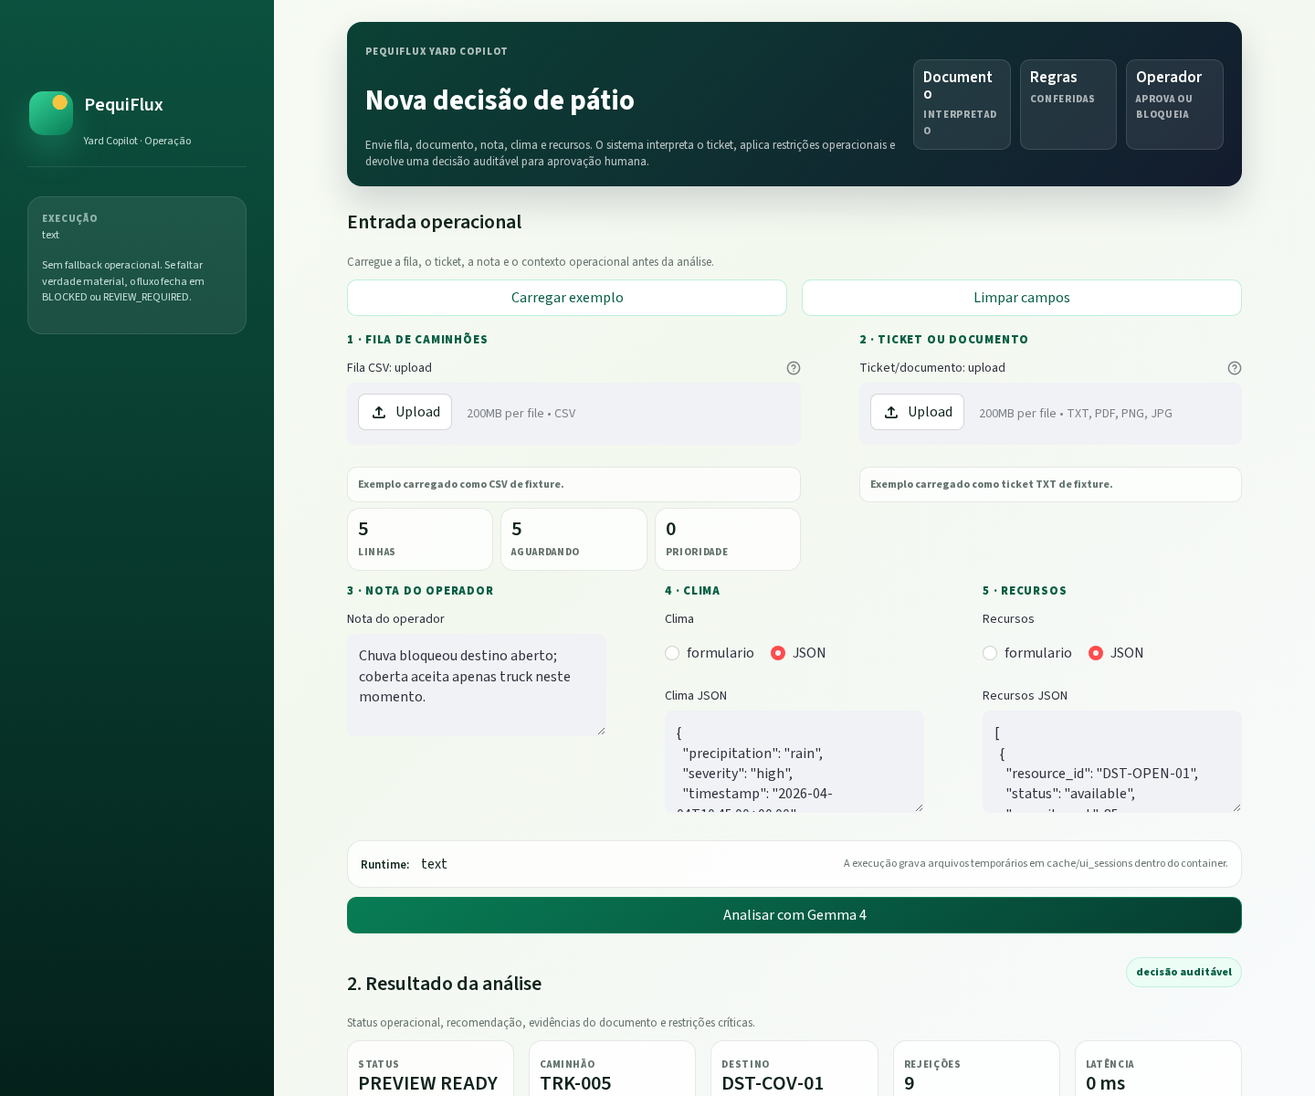
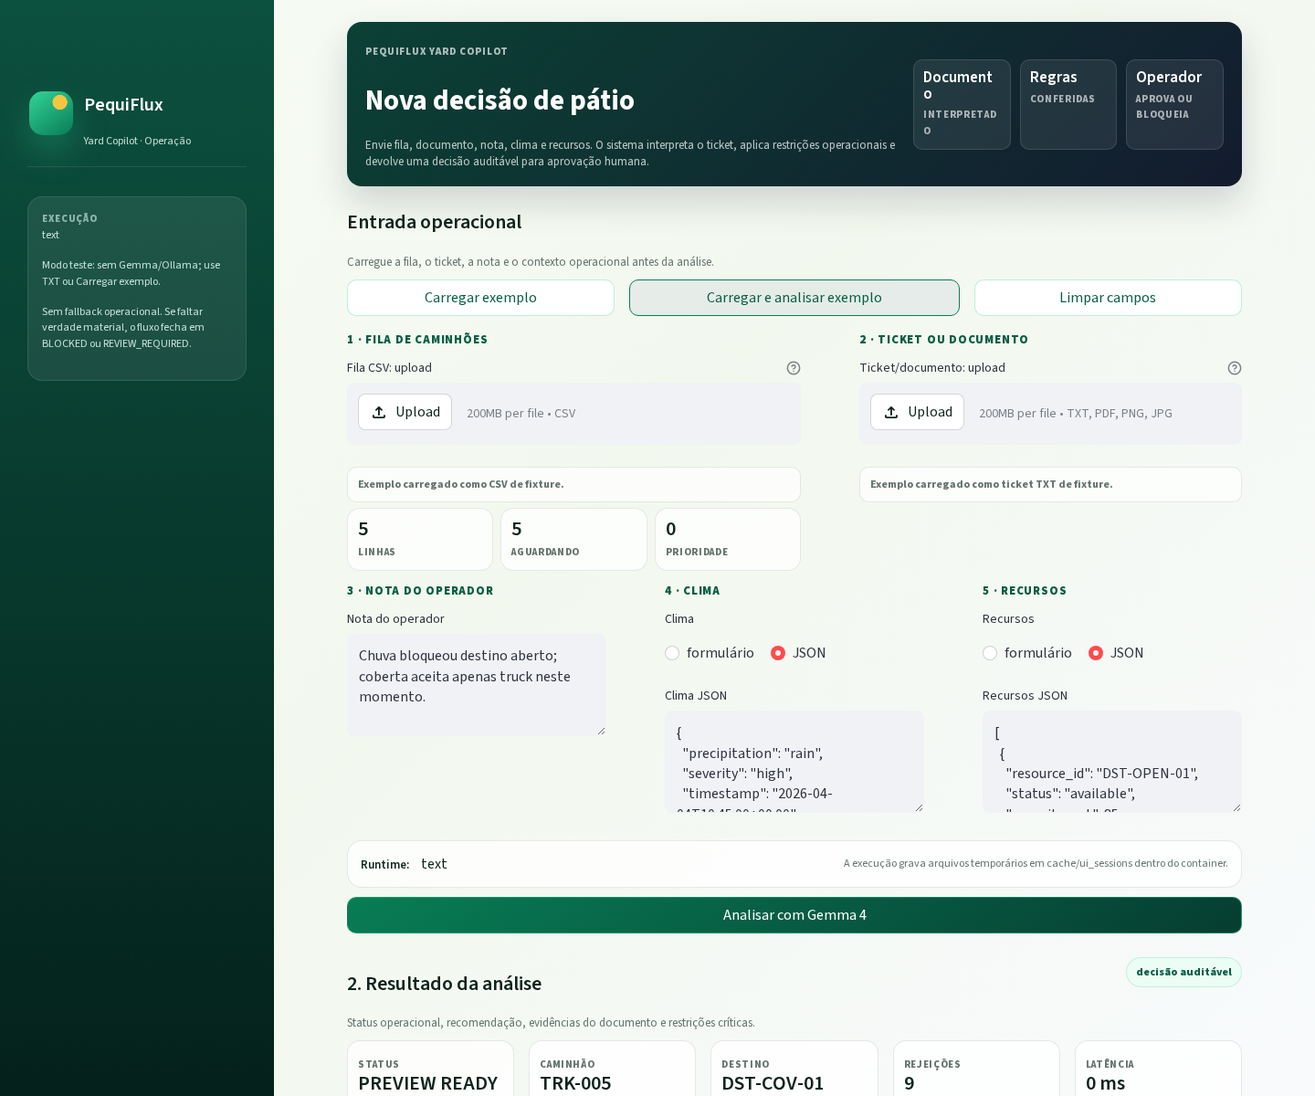
feat: polish operator demo flow

Changed region(s): [[0.3438, 0.2467, 0.875, 0.3083], [0.0312, 0.2158, 0.1562, 0.3392]]

diff --git a/app/ui/streamlit_app.py b/app/ui/streamlit_app.py
@@ -50,6 +50,8 @@ INPUT_KEYS = {
     "weather_severity": "yard_weather_severity",
     "resource_available": "yard_resource_available",
     "resource_blocked": "yard_resource_blocked",
+    "resource_wet": "yard_resource_wet",
+    "analyze_example": "yard_analyze_example",
 }
 
 
@@ -164,7 +166,7 @@ def _render_operator_input(
             """,
             unsafe_allow_html=True,
         )
-        submitted = False
+        submitted = bool(st.session_state.pop(INPUT_KEYS["analyze_example"], False))
         with st.container():
             _render_input_actions(example_case)
             top_a, top_b = st.columns([1.08, 0.92], gap="large")
@@ -219,7 +221,9 @@ def _render_operator_input(
                 """,
                 unsafe_allow_html=True,
             )
-            submitted = st.button("Analisar com Gemma 4", type="primary", width="stretch")
+            submitted = (
+                st.button("Analisar com Gemma 4", type="primary", width="stretch") or submitted
+            )
 
     return {
         "submitted": submitted,
@@ -244,7 +248,7 @@ def _render_operator_note_input() -> str:
 def _render_weather_input() -> str:
     mode = st.radio(
         "Clima",
-        ["formulario", "JSON"],
+        ["formulário", "JSON"],
         horizontal=True,
         key=INPUT_KEYS["weather_mode"],
     )
@@ -266,7 +270,7 @@ def _render_weather_input() -> str:
 def _render_resource_input() -> str:
     mode = st.radio(
         "Recursos",
-        ["formulario", "JSON"],
+        ["formulário", "JSON"],
         horizontal=True,
         key=INPUT_KEYS["resource_mode"],
     )
@@ -282,6 +286,13 @@ def _render_resource_input() -> str:
         key=INPUT_KEYS["resource_blocked"],
         help="Separe IDs por vírgula. Ex.: DST-OPEN-01",
     )
+    wet_destinations = st.text_input(
+        "Destinos para carga úmida",
+        key=INPUT_KEYS["resource_wet"],
+        help="Separe IDs por vírgula. Esses destinos aceitam dry e wet.",
+    )
+    wet_ids = set(_split_ids(wet_destinations))
+    available_ids = list(dict.fromkeys([*_split_ids(available), *wet_ids]))
     resources = [
         {
             "resource_id": item,
@@ -290,9 +301,9 @@ def _render_resource_input() -> str:
             "resource_type": "covered_hopper",
             "exposure": "covered",
             "allowed_vehicle_types": ["truck", "bitrem"],
-            "supported_load_conditions": ["dry"],
+            "supported_load_conditions": ["dry", "wet"] if item in wet_ids else ["dry"],
         }
-        for item in _split_ids(available)
+        for item in available_ids
     ]
     resources.extend(
         {
@@ -354,11 +365,17 @@ def _split_ids(value: str) -> list[str]:
 
 
 def _render_input_actions(example_case: dict[str, Any]) -> None:
-    left, right = st.columns([0.18, 0.18], gap="small")
+    left, middle, right = st.columns([0.18, 0.22, 0.18], gap="small")
     with left:
         if st.button("Carregar exemplo", width="stretch"):
             _load_example_into_state(example_case)
             st.session_state["active_case"] = EXAMPLE_SCENARIO_ID
+            st.rerun()
+    with middle:
+        if st.button("Carregar e analisar exemplo", width="stretch"):
+            _load_example_into_state(example_case)
+            st.session_state["active_case"] = EXAMPLE_SCENARIO_ID
+            st.session_state[INPUT_KEYS["analyze_example"]] = True
             st.rerun()
     with right:
         if st.button("Limpar campos", width="stretch"):
@@ -462,9 +479,19 @@ def _sidebar_runtime_block() -> str:
     <div class="side-card compact">
       <div class="side-kicker">Execução</div>
       <p>{escape(runtime_label())}</p>
+      <p>{escape(_runtime_mode_note())}</p>
       <p>Sem fallback operacional. Se faltar verdade material, o fluxo fecha em BLOCKED ou REVIEW_REQUIRED.</p>
     </div>
     """
+
+
+def _runtime_mode_note() -> str:
+    runtime = os.getenv("PEQUIFLUX_GEMMA_RUNTIME", "ollama")
+    if runtime == "text":
+        return "Modo teste: sem Gemma/Ollama; use TXT ou Carregar exemplo."
+    if runtime == "ollama":
+        return "Gemma 4 ativo via Ollama."
+    return f"Runtime customizado: {runtime}."
 
 
 def _empty_defaults() -> dict[str, str]:
@@ -480,6 +507,7 @@ def _empty_defaults() -> dict[str, str]:
         "weather_severity": "none",
         "resource_available": "",
         "resource_blocked": "",
+        "resource_wet": "",
     }
 
 

diff --git a/app/ui/components/decision_card.py b/app/ui/components/decision_card.py
@@ -18,14 +18,20 @@ from app.ui.components.common import (
 
 
 def recommended_decision_card(payload: FrontEndPayload) -> str:
-    recommended_truck = (
-        payload.recommended_truck.truck_id if payload.recommended_truck else "sem chamada"
-    )
+    status = str(payload.decision_status)
+    recommended_truck = payload.recommended_truck.truck_id if payload.recommended_truck else "-"
     destination = (
-        payload.recommended_destination.destination_id
-        if payload.recommended_destination
-        else "revisão humana"
+        payload.recommended_destination.destination_id if payload.recommended_destination else "-"
     )
+    if status.endswith("REVIEW_REQUIRED"):
+        title = "Decisão exige revisão humana"
+        summary = "O sistema encontrou verdade insuficiente ou conflito material para automatizar com segurança."
+    elif status.endswith("BLOCKED"):
+        title = "Sem despacho automático seguro"
+        summary = "Nenhum par caminhão-destino pode ser liberado automaticamente com as restrições atuais."
+    else:
+        title = f"{recommended_truck} deve ir para {destination}"
+        summary = "Recomendação operacional baseada no ticket interpretado, no estado do pátio e nas restrições críticas avaliadas."
     reason_items = "".join(
         f"<li>{escape(reason_detail_label(item))}</li>" for item in payload.reason_details[:3]
     )
@@ -33,12 +39,12 @@ def recommended_decision_card(payload: FrontEndPayload) -> str:
     <section class="decision-story single">
       <div class="story-main">
         <span class="eyebrow dark">Resultado da análise</span>
-        <h2>{escape(recommended_truck)} deve ir para {escape(destination)}</h2>
-        <p>Recomendação operacional baseada no ticket interpretado, no estado do pátio e nas restrições críticas avaliadas.</p>
+        <h2>{escape(title)}</h2>
+        <p>{escape(summary)}</p>
         <ul>{reason_items}</ul>
       </div>
       <div class="story-grid compact">
-        {story_tile("Status", str(payload.decision_status), "Resultado atual antes da ação humana.")}
+        {story_tile("Status", status, "Resultado atual antes da ação humana.")}
         {story_tile("Caminhão", recommended_truck, f"Destino: {destination}", "action")}
         {story_tile("Motivo operacional", "verificável", reason_detail_label(payload.reason_summary), "proof")}
       </div>

diff --git a/app/ui/components/audit_panel.py b/app/ui/components/audit_panel.py
@@ -125,7 +125,10 @@ def render_operator_action(payload: FrontEndPayload) -> None:
                 )
             }
         )
-        requested_destination = st.selectbox("Destino solicitado", destination_options)
+        if destination_options:
+            requested_destination = st.selectbox("Destino solicitado", destination_options)
+        else:
+            st.warning("Nenhum destino validado disponível para override.")
     if st.button("Registrar ação", type="primary"):
         try:
             finalized, updated_audit = finalize_operator_decision(
@@ -249,7 +252,7 @@ def _ticket_preview_text(ticket_path: Path, content_type: str) -> str:
             return "Texto indisponível no cache da execução."
         return " ".join(text.split())[:360] or "Ticket textual vazio."
     if content_type == "application/pdf":
-        return "PDF encaminhado ao leitor local; a UI nao mostra prompt nem OCR bruto."
+        return "PDF encaminhado ao leitor local; a UI não mostra prompt nem OCR bruto."
     return "Imagem encaminhada ao leitor local; interpretação multimodal ocorre no container."
 
 

diff --git a/app/ui/scenario_loader.py b/app/ui/scenario_loader.py
@@ -62,7 +62,7 @@ def build_request_from_inputs(
             suffix = Path(uploaded.name).suffix.lower()
             content_type = CONTENT_TYPES.get(suffix)
             if content_type is None:
-                return None, f"Tipo de ticket nao suportado: {suffix}"
+                return None, f"Tipo de ticket não suportado: {suffix}"
             ticket_path = run_dir / f"ticket{suffix}"
             ticket_path.write_bytes(uploaded.getvalue())
         else:

diff --git a/docs/SURFACE_MAP.md b/docs/SURFACE_MAP.md
@@ -10,13 +10,13 @@ Mapa da superfície pública/exportada do PequiFlux Yard Copilot.
 | `app.cli.run_benchmark` | CLI module | `app/cli/run_benchmark.py` | Executa benchmark de cenários | Manifest, fixtures e `--output-dir` opcional | Métricas/relatório em `bench/reports/extended/<run_id>` por padrão | Recusa `bench/reports/sample/` como saída porque o sample é evidência pública congelada; `metrics.json` inclui `run_metadata` com runtime, manifest, contagem e variantes reportadas; novos snapshots de teste podem usar `bench/reports/extended-sample/<run_id>` |
 | `app.cli.prewarm_gemma` | CLI module | `app/cli/prewarm_gemma.py` | Preaquece runtime Gemma/Ollama | Configuração de runtime | Status de prewarm | Não deve substituir runtime ausente |
 | `app.cli.blueprint_audit` | CLI module | `app/cli/blueprint_audit.py` | Audita alinhamento com blueprint | Blueprint/docs/manifest | Relatório de auditoria | Exige o pack congelado S01-S20, valida que `docs/technical_blueprint.md` é ponte curta para o blueprint canônico da raiz e apoia checks públicos |
-| `app.ui.streamlit_app` | UI module | `app/ui/streamlit_app.py` | Composição da tela Streamlit operacional | `Carregar exemplo`, `Limpar campos`, fila CSV por upload, ticket/documento PDF/PNG/JPG/TXT por upload, nota, clima em formulário simples ou JSON e recursos em formulário simples ou JSON | Nova decisão, resultado, ação do operador e auditoria técnica colapsada | Deve permanecer fino; importa componentes por nomes públicos de renderização, sem depender de helpers privados; não renderiza benchmark strip, modo de banca ou comparação entre variantes na tela principal; `PEQUIFLUX_UI_AUTORUN=1` carrega o exemplo para captura de screenshot/demo |
+| `app.ui.streamlit_app` | UI module | `app/ui/streamlit_app.py` | Composição da tela Streamlit operacional | `Carregar exemplo`, `Carregar e analisar exemplo`, `Limpar campos`, fila CSV por upload, ticket/documento PDF/PNG/JPG/TXT por upload, nota, clima em formulário simples ou JSON e recursos em formulário simples ou JSON com destinos para carga úmida | Nova decisão, resultado, ação do operador e auditoria técnica colapsada | Deve permanecer fino; importa componentes por nomes públicos de renderização, sem depender de helpers privados; não renderiza benchmark strip, modo de banca ou comparação entre variantes na tela principal; sidebar distingue modo teste `text` de Gemma 4 ativo via Ollama; `PEQUIFLUX_UI_AUTORUN=1` carrega o exemplo para captura de screenshot/demo |
 | `app.ui.scenario_loader` | UI service module | `app/ui/scenario_loader.py` | Carrega manifest/casos e monta `DecisionRequest` de inputs técnicos | Manifest, fixtures, upload/texto da UI, JSON de clima/recurso | `DecisionRequest` ou erro explícito de entrada | Escreve somente cache de sessão em `cache/ui_sessions`; sem regra de decisão |
 | `app.ui.ui_runner` | UI service module | `app/ui/ui_runner.py` | Executa payload principal e baseline FIFO para a UI | `DecisionRequest` | `FrontEndPayload` full e FIFO | Único ponto da UI que instancia `DecisionOrchestrator`; orquestrador cacheado com `st.cache_resource` para evitar reconstruir adapter/runtime a cada rerun do Streamlit |
 | `app.ui.components.common` | UI helper module | `app/ui/components/common.py` | Helpers compartilhados de apresentação, escape HTML, chips, métricas curtas, rótulo de runtime e status técnico | `FrontEndPayload`, valores de UI, variáveis de ambiente de runtime | Strings HTML seguras e labels de apresentação | Superfície compartilhada usa nomes públicos como `escape`, `chip`, `runtime_label`, `audit_status_label` e `operator_action_label`; não calcula FIFO bruto nem lê CSV de fila; helpers internos continuam privados |
-| `app.ui.components.decision_card` | UI component module | `app/ui/components/decision_card.py` | Renderiza resultado da análise, fila visual, documento interpretado pelo Gemma 4 e restrições bloqueantes | `FrontEndPayload`, `DecisionRequest` | HTML seguro para Streamlit | A tela principal usa `recommended_decision_card`, `queue_stack_card`, `gemma_extraction_card` e `blocked_constraints_card`; `gemma_extraction_card` mostra ticket, caminhão lido, tipo de carga, destino extraído, confiança e campos usados na decisão; não expõe comparação entre variantes, benchmark strip ou modo de banca; usa `queue_diff`/audit record; não recalcula regra de domínio |
+| `app.ui.components.decision_card` | UI component module | `app/ui/components/decision_card.py` | Renderiza resultado da análise, fila visual, documento interpretado pelo Gemma 4 e restrições bloqueantes | `FrontEndPayload`, `DecisionRequest` | HTML seguro para Streamlit | A tela principal usa `recommended_decision_card`, `queue_stack_card`, `gemma_extraction_card` e `blocked_constraints_card`; `recommended_decision_card` trata `PREVIEW_READY`, `REVIEW_REQUIRED` e `BLOCKED` com títulos operacionais distintos; `gemma_extraction_card` mostra ticket, caminhão lido, tipo de carga, destino extraído, confiança e campos usados na decisão; não expõe comparação entre variantes, benchmark strip ou modo de banca; usa `queue_diff`/audit record; não recalcula regra de domínio |
 | `app.ui.components.validation_matrix` | UI component module | `app/ui/components/validation_matrix.py` | Renderiza heatmap de validação de hard constraints | `FrontEndPayload.audit_record` | Componente Streamlit/HTML | Exporta `render_validation_matrix`; consome `hard_constraints_checked`; não revalida pares |
-| `app.ui.components.audit_panel` | UI component module | `app/ui/components/audit_panel.py` | Renderiza auditoria, contexto interpretado, mensagem ao motorista e ação humana | `FrontEndPayload`, `DecisionRequest` | Componentes Streamlit e persistência de ação via governança | Exporta renderizadores públicos como `render_audit`, `render_driver_message`, `render_operator_action`, `render_status_bar`, `copilot_timeline_card` e `tool_badges_card`; `render_gemma_context` mostra Runtime, Etapa, Tipo do arquivo e Status dentro da auditoria técnica; persistência passa por `finalize_operator_decision` e `SQLiteStore` |
+| `app.ui.components.audit_panel` | UI component module | `app/ui/components/audit_panel.py` | Renderiza auditoria, contexto interpretado, mensagem ao motorista e ação humana | `FrontEndPayload`, `DecisionRequest` | Componentes Streamlit e persistência de ação via governança | Exporta renderizadores públicos como `render_audit`, `render_driver_message`, `render_operator_action`, `render_status_bar`, `copilot_timeline_card` e `tool_badges_card`; `render_gemma_context` mostra Runtime, Etapa, Tipo do arquivo e Status dentro da auditoria técnica; override avisa quando não há destino validado; persistência passa por `finalize_operator_decision` e `SQLiteStore` |
 | `app.orchestration.orchestrator` | module | `app/orchestration/orchestrator.py` | Coordena fluxo de decisão e finalização auditável | `DecisionRequest`, estados, política | Decisão final/review/error com payload auditável | `run_decision()` delega para `load_inputs`, `interpret_context`, `validate_and_rank`, `build_payload` e `persist_and_log`; bloqueios após interpretação preservam proveniência/contexto no payload terminal |
 | `app.orchestration.truth_resolver` | module | `app/orchestration/truth_resolver.py` | Resolve divergências entre fontes | Ticket, nota, estados | Contexto reconciliado | Falhas devem ser explícitas |
 | `app.orchestration.state_machine` | module | `app/orchestration/state_machine.py` | Controla estados terminais e transições | Estado atual, evento ou terminal forçado com motivo | Novo estado/erro | Fluxo normal usa `transition_to`; erro terminal controlado usa `force_terminal`, sem atribuição direta fora da máquina |

diff --git a/docs/UI_DECISIONS.md b/docs/UI_DECISIONS.md
@@ -10,14 +10,22 @@ A interface principal deve parecer produto operacional, não painel de banca. O 
 
 A primeira tela segue quatro blocos:
 
-1. Nova decisão: botões `Carregar exemplo` e `Limpar campos`, fila CSV por upload, ticket/documento PDF/PNG/JPG/TXT por upload, nota do operador, clima em formulário simples ou JSON, e recursos em formulário simples ou JSON.
+1. Nova decisão: botões `Carregar exemplo`, `Carregar e analisar exemplo` e `Limpar campos`, fila CSV por upload, ticket/documento PDF/PNG/JPG/TXT por upload, nota do operador, clima em formulário simples ou JSON, e recursos em formulário simples ou JSON.
 2. Resultado: status, caminhão recomendado, destino recomendado, motivo operacional, documento interpretado, restrições críticas e mensagem ao motorista.
 3. Ação do operador: aprovar, bloquear ou sobrescrever com motivo.
 4. Auditoria técnica: JSON, matriz de validação, hashes, regras disparadas e latência.
 
 ### Demo discreta
 
-A UI mantém apenas dois comandos auxiliares no cabeçalho da entrada operacional: `Carregar exemplo` e `Limpar campos`. O exemplo preenche o pacote com um caso versionado do manifest e permite que avaliadores executem o fluxo como usuários finais. A demo não deve transformar a tela principal em benchmark, modo de banca ou painel comparativo.
+A UI mantém comandos auxiliares no cabeçalho da entrada operacional: `Carregar exemplo`, `Carregar e analisar exemplo` e `Limpar campos`. O exemplo preenche o pacote com um caso versionado do manifest e permite que avaliadores executem o fluxo como usuários finais. A demo não deve transformar a tela principal em benchmark, modo de banca ou painel comparativo.
+
+### Runtime explícito
+
+O sidebar precisa distinguir execução de teste e execução real. Com `PEQUIFLUX_GEMMA_RUNTIME=text`, a UI informa que é modo teste sem Gemma/Ollama e orienta o uso de TXT ou exemplo. Com `ollama`, informa que Gemma 4 está ativo via Ollama.
+
+### Recursos sem JSON obrigatório
+
+O formulário simples de recursos inclui destinos disponíveis, destinos bloqueados e destinos para carga úmida. Destinos marcados como carga úmida recebem `supported_load_conditions: ["dry", "wet"]`, evitando que o operador precise abrir JSON para modelar moega compatível com carga úmida.
 
 ### Sem benchmark na tela principal
 

diff --git a/docs/DUPLICATION_GUARD.md b/docs/DUPLICATION_GUARD.md
@@ -53,7 +53,8 @@ Procurar:
 - Classificação de exceções deve acumular sinais em `secondary_exceptions` e `affected_resources`; não voltar a early return por primeira condição em `app/services/exception_classifier.py`.
 - Quando `MANUAL_REVIEW_HINT` aparecer em achados de classificação, mesmo como secundária, `needs_human_review` deve ser `true`; não depender apenas da exceção primária.
 - Combinações críticas de hierarquia devem ficar como testes unitários em `tests/unit/test_exception_classifier.py`, `tests/unit/test_constraints.py` e `tests/unit/test_truth_resolver.py`; não expandir o sample público congelado só para cobrir variantes de regra.
-- A tela principal da UI deve ser operacional: comandos `Carregar exemplo`/`Limpar campos` no cabeçalho da entrada operacional, fila CSV por upload, ticket/documento por upload, nota, clima/recursos simples ou JSON, resultado, ação humana e auditoria técnica colapsada. Benchmark strip, modo de banca e comparação entre variantes não devem voltar para a superfície principal.
+- A tela principal da UI deve ser operacional: comandos `Carregar exemplo`/`Carregar e analisar exemplo`/`Limpar campos` no cabeçalho da entrada operacional, fila CSV por upload, ticket/documento por upload, nota, clima/recursos simples ou JSON, resultado, ação humana e auditoria técnica colapsada. Benchmark strip, modo de banca e comparação entre variantes não devem voltar para a superfície principal.
+- O formulário simples de recursos deve modelar compatibilidade com carga úmida via `Destinos para carga úmida`; não forçar operadores finais a editar JSON para adicionar `supported_load_conditions: ["dry", "wet"]`.
 - Prova de Gemma na UI deve usar `gemma_extraction_card` para o resumo operacional e `render_gemma_context` para Runtime/Etapa/Tipo do arquivo/Status na auditoria avançada; não criar cartão paralelo de benchmark ou runtime.
 - Screenshot do README deve usar `assets/screenshots/pequiflux-ui.png`; manter `docs/writeup_assets/pequiflux-ui.png` sincronizado quando usado em material de submissão.
 - Visualizações de fila e heatmap na UI devem usar `queue_diff` e `AuditRecord`; não recriar validação de hard constraints no front-end.

diff --git a/docs/HACKATHON_SUBMISSION.md b/docs/HACKATHON_SUBMISSION.md
@@ -4,9 +4,9 @@ Mapa dos critérios esperados da submissão para evidências versionadas no repo
 
 | Critério | Evidência no repo | Como verificar |
 |---|---|---|
-| Uso claro de Gemma | `app/gemma/`, `docs/gemma.md`, `docs/adr/ADR-0002-gemma-as-interpretation-layer.md` | Gemma interpreta documento; regras deterministicas decidem |
+| Uso claro de Gemma | `app/gemma/`, `docs/gemma.md`, `docs/adr/ADR-0002-gemma-as-interpretation-layer.md` | Gemma interpreta documento; regras determinísticas decidem |
 | Problema real e delimitado | `README.md`, `docs/product.md`, `docs/LIMITATIONS.md` | Escopo: despacho de pátio sob exceção operacional |
-| Demo avaliavel | `app/ui/streamlit_app.py`, `assets/screenshots/pequiflux-ui.png`, `docs/DEMO_SCRIPT.md` | `make ui-text` sem GPU; `make ui` para Gemma/Ollama completo |
+| Demo avaliável | `app/ui/streamlit_app.py`, `assets/screenshots/pequiflux-ui.png`, `docs/DEMO_SCRIPT.md` | `make ui-text` sem GPU em modo teste; `make ui` para Gemma/Ollama completo |
 | Benchmark comparativo | `app/cli/run_benchmark.py`, `bench/metrics.py`, `bench/reports/sample/`, `bench/reports/extended/` | `make bench` gera `metrics.json`, `summary.csv`, `per_scenario.json` em `extended`; o sample público fica congelado e não é saída viva |
 | Reprodutibilidade | `Dockerfile`, `compose.yaml`, `Makefile`, `config/env.example` | `make demo-text`, `make ui-text`, `make test`, `make audit` |
 | Auditoria e explicabilidade | `app/audit/`, `app/services/decision_builder.py`, schemas em `scenarios/schemas/` | Payload final inclui `AuditRecord`, regras disparadas e hashes |
@@ -20,7 +20,7 @@ Pe-Q.I torna mensurável quando e por que o FIFO puro deve ser quebrado: o bench
 ## Evidência Rápida
 
 - UI final: `assets/screenshots/pequiflux-ui.png`
-- Benchmark sample publico congelado: `bench/reports/sample/metrics.json`
+- Benchmark sample público congelado: `bench/reports/sample/metrics.json`
 - Benchmark extended interno: `bench/reports/extended/<run_id>/metrics.json`
 - Roteiro de video: `docs/DEMO_SCRIPT.md`
 - Limitacoes publicas: `docs/LIMITATIONS.md`

diff --git a/docs/DEMO_SCRIPT.md b/docs/DEMO_SCRIPT.md
@@ -11,14 +11,14 @@ Fala:
 
 ## 0:20-0:45 — Carregar Exemplo
 
-No bloco `Entrada operacional`, clique em `Carregar exemplo`. O botao `Limpar campos` fica ao lado para voltar ao estado vazio.
+No bloco `Entrada operacional`, clique em `Carregar e analisar exemplo`. O botão `Carregar exemplo` apenas preenche os campos, e `Limpar campos` volta ao estado vazio.
 
 Fala:
 > Para a demo, eu carrego um pacote sintético versionado. Em operação, esses campos viriam do upload da fila CSV, do ticket PDF, imagem ou TXT, da nota do operador, e do clima/recursos em formulário simples ou JSON.
 
 ## 0:45-1:10 — Analisar
 
-Clique em `Analisar com Gemma 4`.
+Se tiver usado apenas `Carregar exemplo`, clique em `Analisar com Gemma 4`.
 
 Fala:
 > A execução interpreta o documento, reconcilia a nota do operador com clima e recursos, aplica hard constraints e prepara uma decisão auditável. Se faltar verdade material, o sistema fecha em bloqueio ou revisão, sem fallback operacional.
@@ -39,7 +39,7 @@ Fala:
 
 ## 2:20-2:45 — Ação Humana
 
-Mostrar aprovar, bloquear ou sobrescrever com motivo obrigatorio.
+Mostrar aprovar, bloquear ou sobrescrever com motivo obrigatório.
 
 Fala:
 > O sistema recomenda; o operador governa. Aprovar, bloquear ou sobrescrever exige motivo, e a persistência registra a ação humana junto da auditoria.
